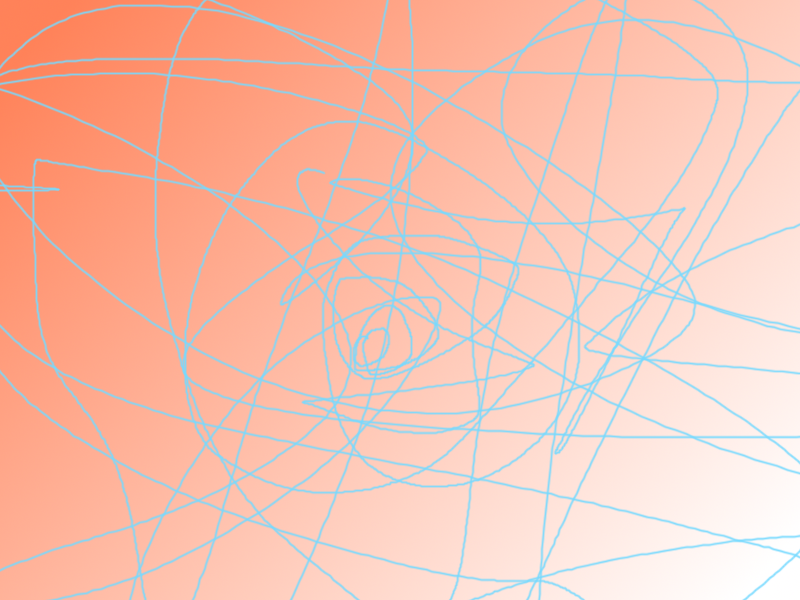
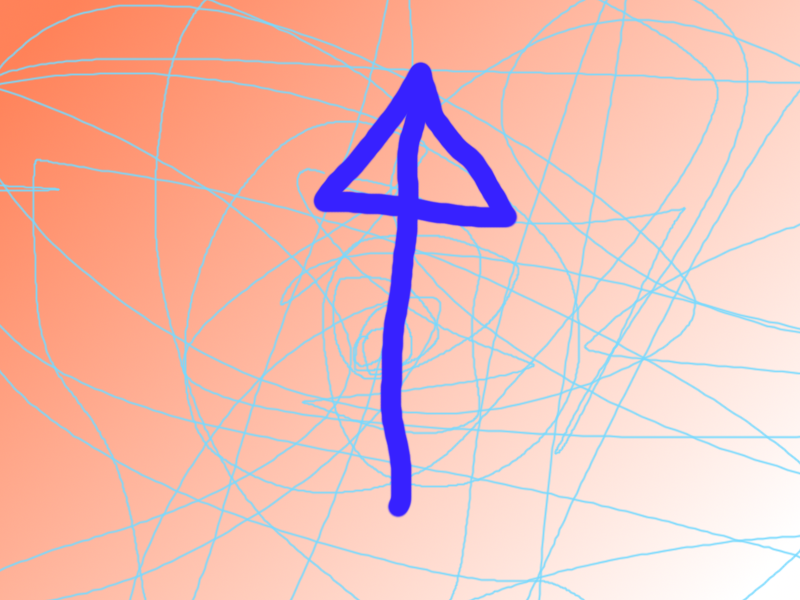
almost working but broken right now

Changed region(s): [[0.375, 0.09, 0.6562, 0.87]]

diff --git a/src/rituals_renderer.cpp b/src/rituals_renderer.cpp
@@ -17,8 +17,11 @@ struct Sprite
 
 struct Renderer
 {
-	GLuint shader_program, vbo, vao, texture ;
-	isize translation_loc, rotation_loc, color_loc, screen_loc, scale_loc, center_loc;
+	GLuint shader_program, vbo, vao, texture;
+	real texture_width, texture_height;
+
+
+	isize screen_loc, texture_size_loc;
 	Vec4 ortho;
 
 	real* sprite_data;
@@ -30,19 +33,29 @@ struct Renderer
 };
 
 
-void sprite_init(Sprite* s, Renderer* renderer)
+void sprite_init(Sprite* s)
 {
+	s->position = v2(0, 0);
+	s->center = v2(0, 0);
+	s->angle = 0;
+	s->scale = v2(1.4, 1.4);
+	s->texture = rect2(0, 0, 1, 1);
+	s->color = v4(1, 1, 1, 1);
+	s->id = 0;
 }
 
 
 #define _gl_offset(a) ((GLvoid*)(a*sizeof(real)))
+int32 t = 0;
+#define _glerror printf("OpenGL Error at #%d: %0x\n", t++, glGetError());
 void renderer_init(Renderer* renderer, Memory_Arena* arena)
 {
 	renderer->last_sprite_id = 0;
 	renderer->sprite_data = Arena_Push_Array(arena, real, Megabytes(1) / sizeof(real)); 
 	glGenVertexArrays(1, &renderer->vao);
- 
+	glBindVertexArray(renderer->vao);
 	glGenBuffers(1, &renderer->vbo);
+	glBindBuffer(GL_ARRAY_BUFFER, renderer->vbo);
 
 	usize stride = sizeof(real) * 15;
 	//position
@@ -73,8 +86,6 @@ void renderer_init(Renderer* renderer, Memory_Arena* arena)
 	glVertexAttribPointer(5, 4, GL_FLOAT, GL_FALSE, stride, _gl_offset(11));
 	glEnableVertexAttribArray(5);
 	glVertexAttribDivisor(5, 4);
-
-
 
 	glBindVertexArray(0);
 
@@ -129,6 +140,7 @@ void renderer_init(Renderer* renderer, Memory_Arena* arena)
 	glDeleteShader(fragment_shader);
 
 	renderer->screen_loc = glGetUniformLocation(renderer->shader_program, "screen");
+	renderer->texture_size_loc = glGetUniformLocation(renderer->shader_program, "texture_size");
 }
 
 GLuint ogl_add_texture(uint8* data, isize w, isize h) 
@@ -152,7 +164,7 @@ GLuint ogl_add_texture(uint8* data, isize w, isize h)
 }
 	
 
-GLuint ogl_load_texture(char* filename)
+GLuint ogl_load_texture(char* filename, isize* w_o, isize* h_o)
 {
 	int w, h, n;
 	char file[File_Path_Max_Length];
@@ -164,6 +176,9 @@ GLuint ogl_load_texture(char* filename)
 	if(texture == NULL) {
 		printf("There was an error loading %s \n", filename);
 	}
+	if(w_o != NULL) *w_o = w;
+	if(h_o != NULL) *h_o = h;
+
 	STBI_FREE(data);
 	return texture;
 }
@@ -174,6 +189,7 @@ void renderer_start(Renderer* renderer, Game* game)
 	renderer->sprite_count = 0;
 	glUseProgram(renderer->shader_program);
 	glUniform4f(renderer->screen_loc, 0, 0, game->width, game->height);
+	glUniform2f(renderer->texture_size_loc, renderer->texture_width, renderer->texture_height);
 
 	glActiveTexture(GL_TEXTURE0);
 	glBindTexture(GL_TEXTURE_2D, renderer->texture);

diff --git a/src/rituals_win32.cpp b/src/rituals_win32.cpp
@@ -111,33 +111,31 @@ Sprite* sp;
 isize sprite_count;
 Renderer* renderer;
 
+
 void update(Game* game)
 {
 	renderer_start(renderer, game);
-	renderer_draw(renderer);
-#if 0
-	sp->tr.position = v2(
-			game->input->mouse_x,
-			game->input->mouse_y);
 
-	renderer_start(renderer, game);
+	Sprite s;
+	sprite_init(&s);
+	s.angle = 45 * Math_Deg2Rad;
+	s.position = v2(0.1f, 0.1f);
+	//s.texture.w = renderer->texture_width;
+	//s.texture.h = renderer->texture_height;
 
-	for(isize i = 0; i < sprite_count; ++i) {
-		(sp+i)->tr.angle += 0.05f;
-		renderer_push_sprite(renderer, sp + i);
-	}
+	renderer_push_sprite(renderer, &s);
 
 	renderer_draw(renderer);
-	//b = 1;
-	//renderer_draw_sprite(renderer, NULL);
-#endif
 }
 
 void load_assets(Game* game)
 {
 	renderer = Arena_Push_Struct(game->play_arena, Renderer);
 	renderer_init(renderer, game->play_arena);
-	renderer->texture = ogl_load_texture("data/graphics.png");
+	isize w, h;
+	renderer->texture = ogl_load_texture("data/graphics.png", &w, &h);
+	renderer->texture_width = (real)w;
+	renderer->texture_height = (real)h;
 #if 0
 	sp = Arena_Push_Array(game->play_arena, Sprite, 1000);
 	for(isize i = 0; i < 1000; ++i) {

diff --git a/src/rituals_math.cpp b/src/rituals_math.cpp
@@ -165,6 +165,13 @@ union Rectangle
 	Rect2i intrect;
 };
 
+static inline Rect2 rect2(real x, real y, real w, real h)
+{
+	return Rect2{
+		x, y, w, h
+	};
+}
+
 static inline Rect2 intrect_to_rect(Rect2i* ir)
 {
 	Rect2 rr = {0};
